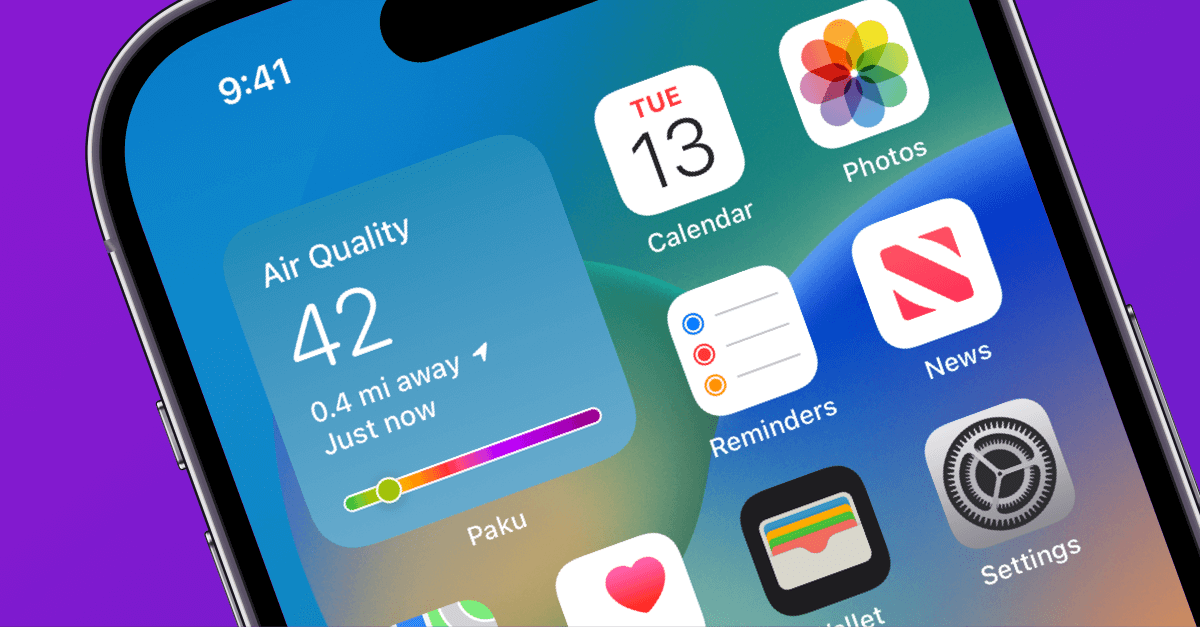
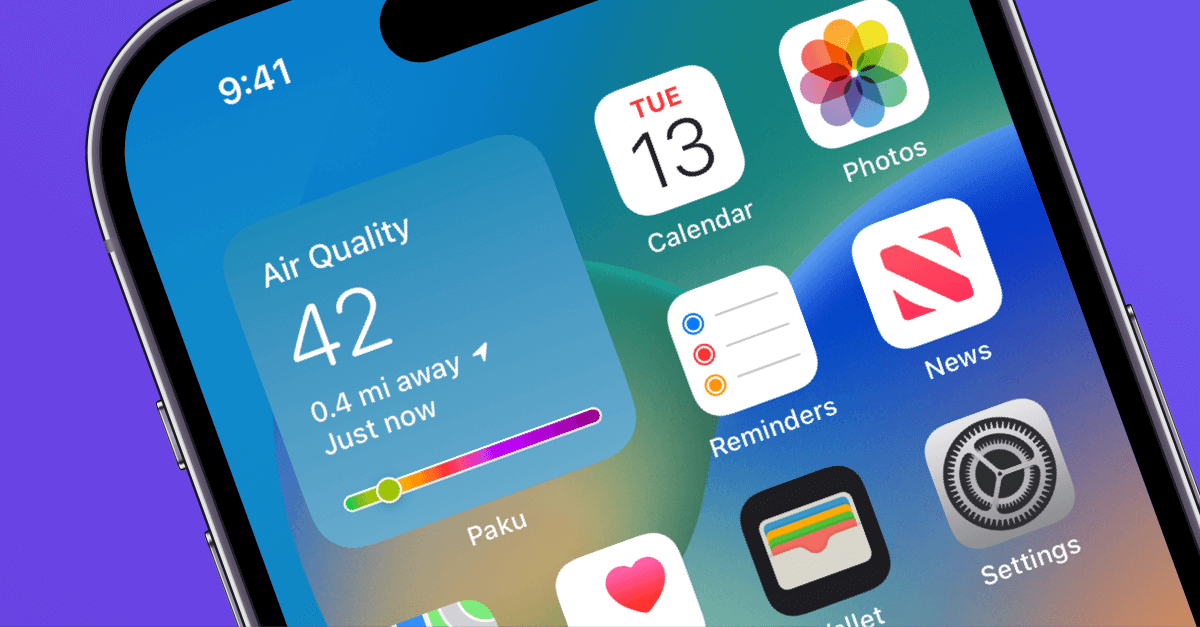
Color updates

diff --git a/css/main.css b/css/main.css
@@ -29,7 +29,7 @@
     padding-bottom: 120%;
     left: -50%;
     margin-top: calc(-120% + 320px);
-    background-image: linear-gradient(to right, #BB26D7, #5E23C1);
+    background-image: linear-gradient(to right, #6031CC, #6D78FF);
     border-radius: 50%;
     position: absolute;
 }
